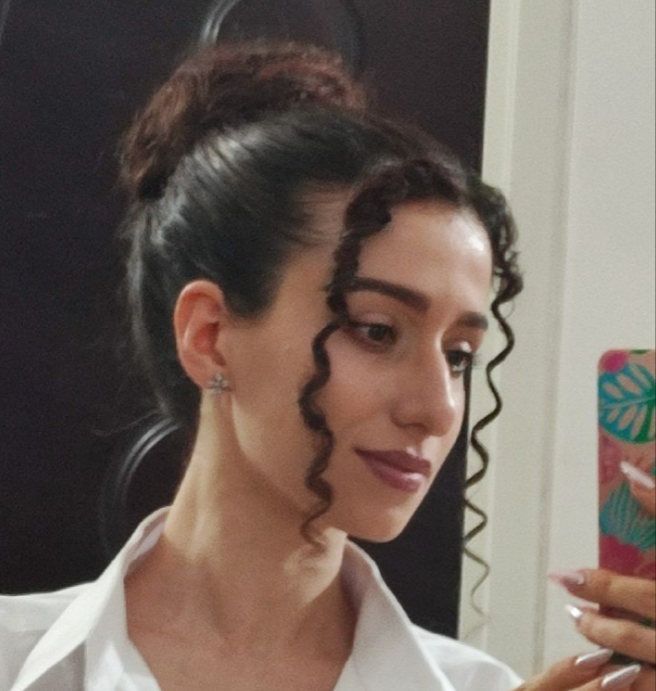
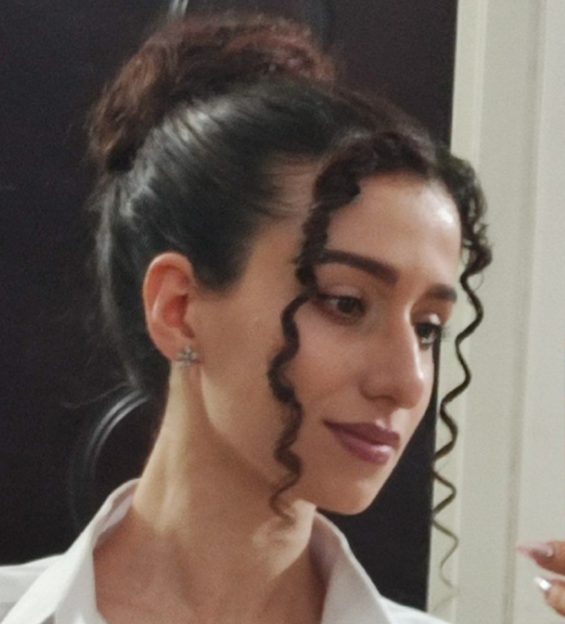
add more css style

diff --git a/style.css b/style.css
@@ -16,8 +16,8 @@ body{
 .contain{
     width: 400px;
     border-radius: 30px;
-    /* background-color: rgb(177, 84, 124); */
-    box-shadow: 20px 20px 30px #367161 ,-20px -20px 30px #36714f;
+    background: linear-gradient(135deg, rgb(178, 93, 130) 0%, rgb(80, 40, 55) 100%);
+    box-shadow: 10px 10px 70px #161a19 ,-10px -10px 50px #efb8ef;
     padding: 20px;
     text-align: center;
 }
@@ -27,11 +27,27 @@ body{
    margin:10px auto ;
 } 
 .contain .pic img{
-    border: 5px solid #dc3f8b;
-    border-radius: 50%;
+    border: 3.3px solid #d08faf;
+    border-radius: 60%;
     width: 100%;
 }
 
 .contain h1{
-    color:white;
+    color:rgb(28, 27, 27);
+    padding-top: 28px;
+}
+.contain p{
+    color: #2c1325;
+    font-size: 16.55px;
+}
+.contain .social{
+    display: flex;
+    justify-content: center;
+    align-items: center;
+    padding: 5px 0;
+}
+.contain .social i{
+   padding:  17px 17px 0 ;
+    font-size: 23px;
+    color: #d08faf;
 }
